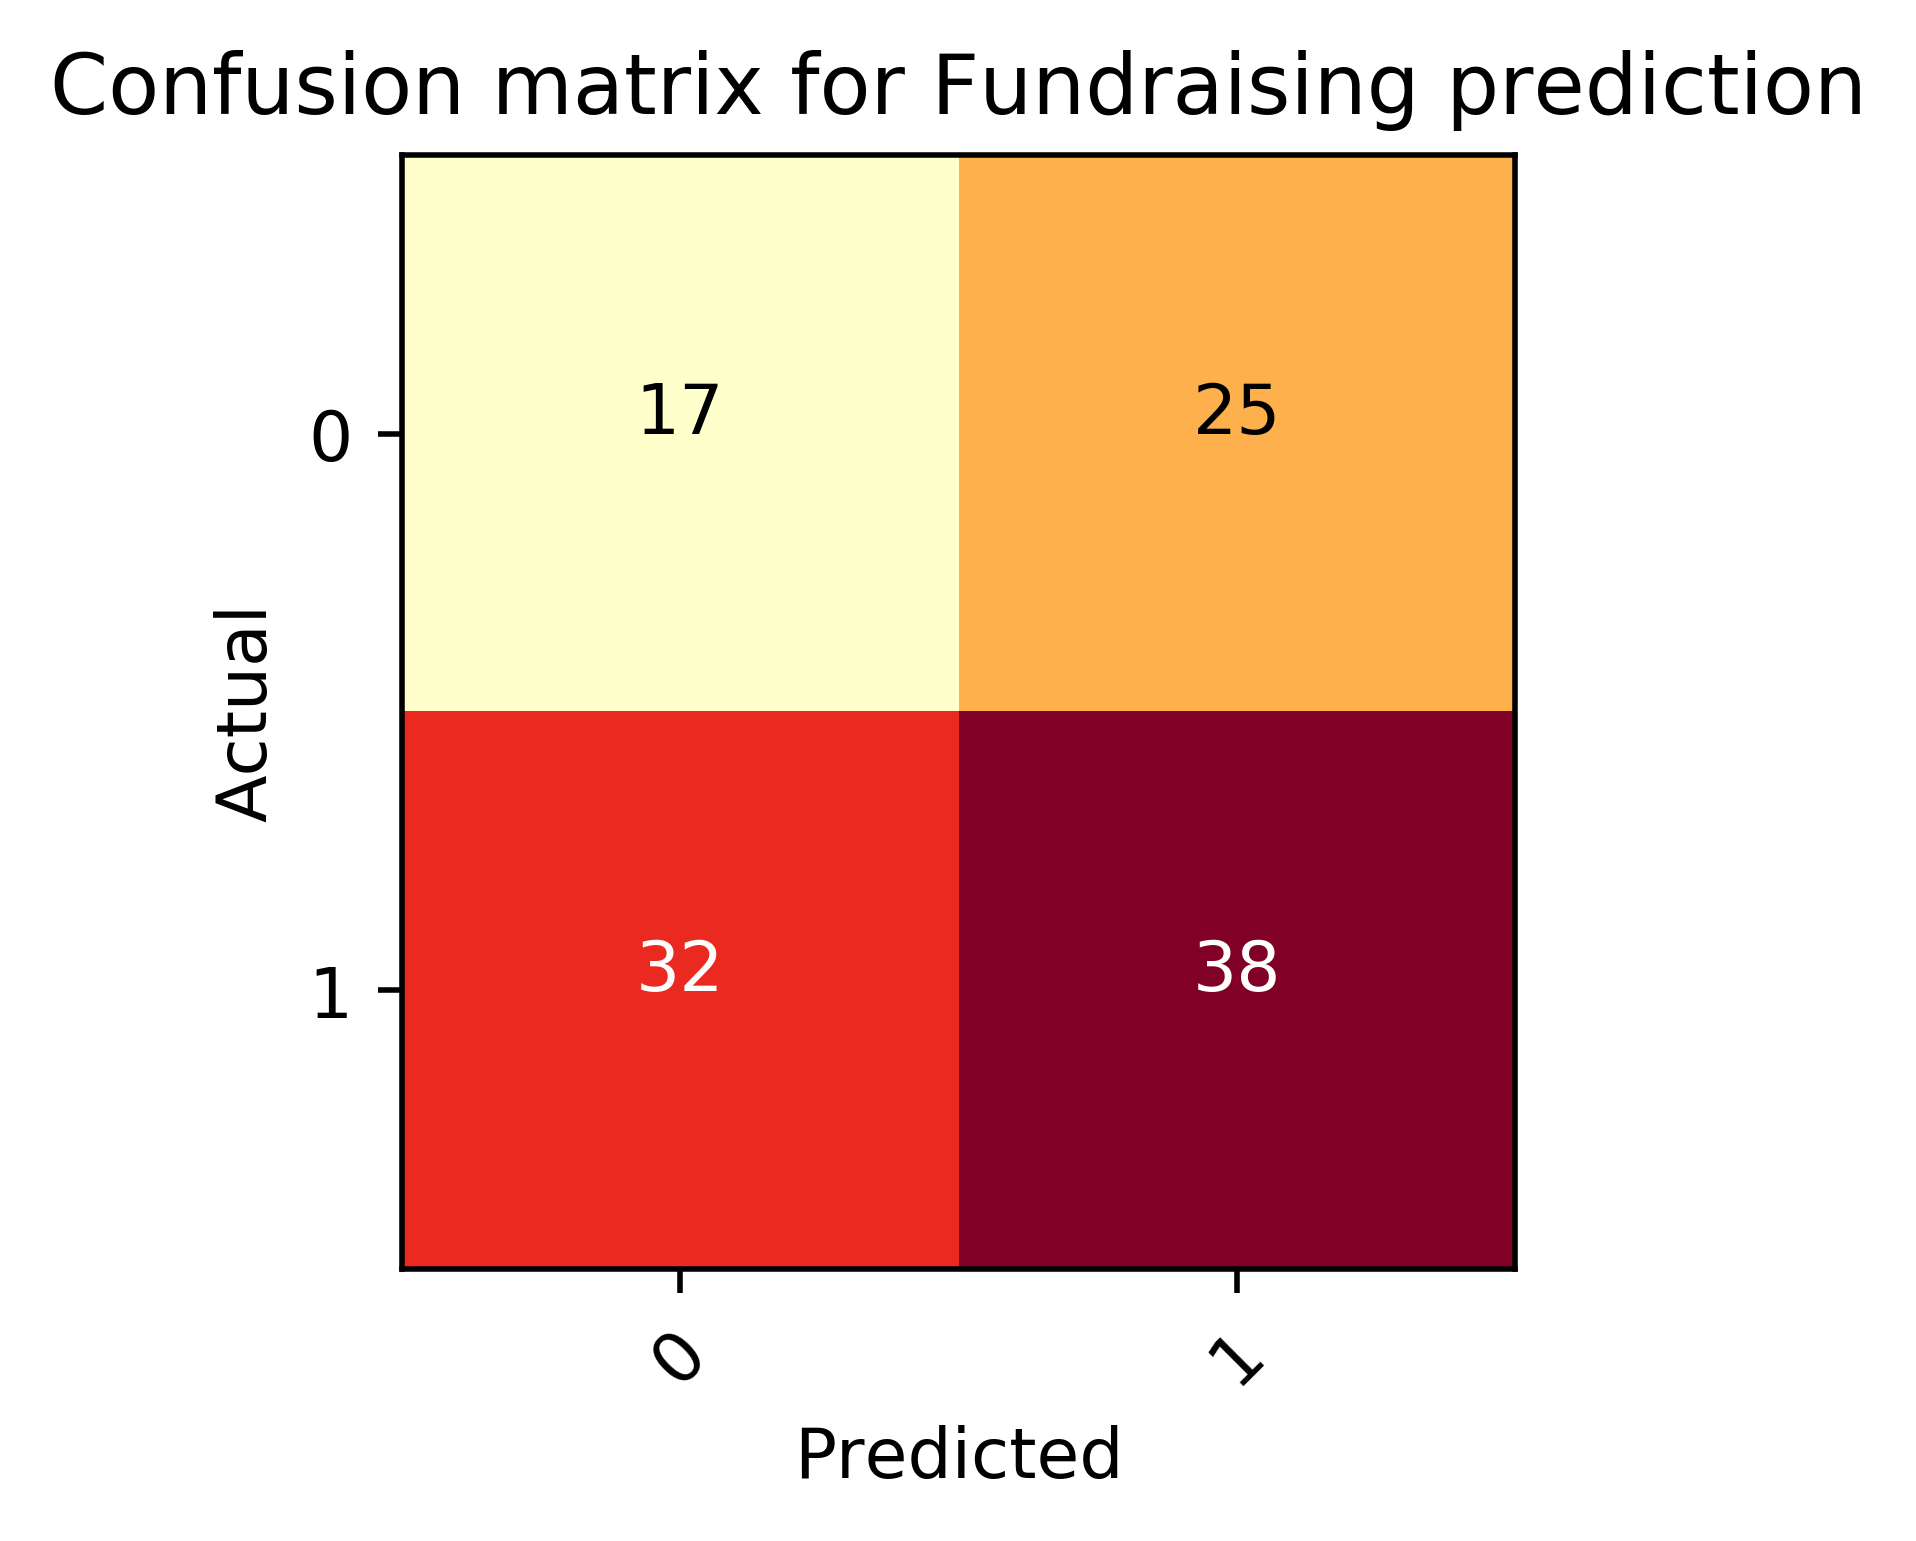
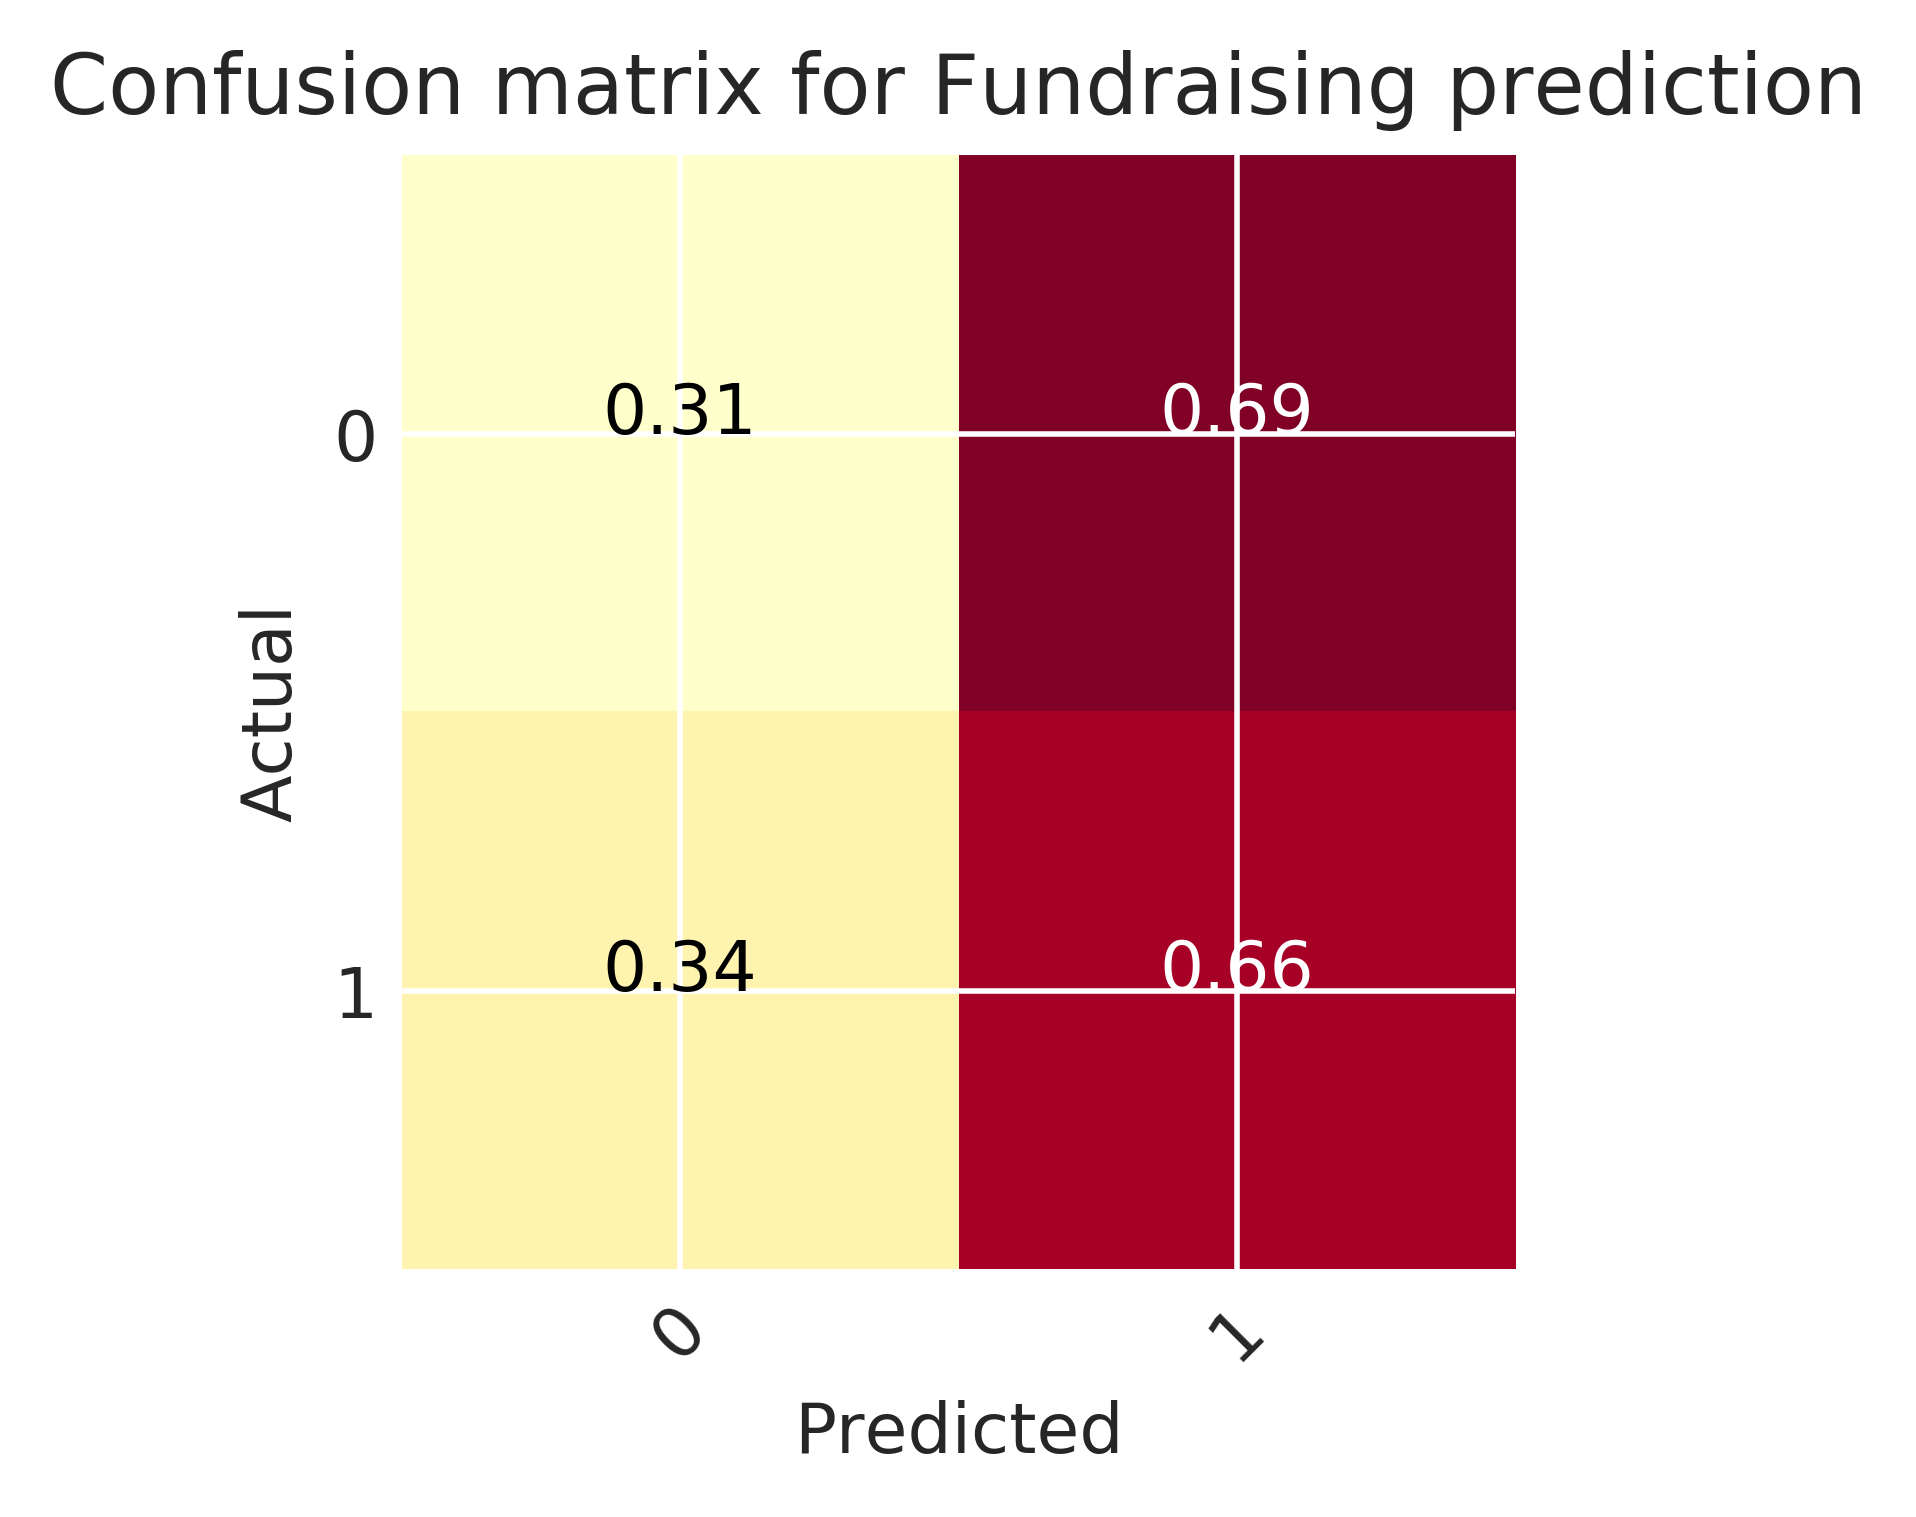
adding style

diff --git a/utils.py b/utils.py
@@ -1,9 +1,12 @@
 import itertools
 import numpy as np
 import matplotlib.pyplot as plt
+import seaborn as sns
 
 import sklearn.metrics
 from lifelines import KaplanMeierFitter
+
+sns.set_style(style="darkgrid")
 
 def kaplan_curve(df, duration, censorship, cohort=None):
     """ Estimate the survival function

diff --git a/README.md b/README.md
@@ -18,12 +18,12 @@ This section develop a model to predict if fundraising will be required.
 ### Feature Engineering
 #### Feature Scaling
 Based on the distribution of the variables the following scaling method were used:
-` `StandardScaler` the scaler was used to scale;`Age`
+* `StandardScaler` the scaler was used to scale;`Age`
 * `MinMaxScaler`, this scaler was used to scale; `No_of_Children`, `Significant_Children`, and `Significant_Relatives`
 * `RobustScaler`, this caler was used used to scale; `Size`, and `Word_Count`
 #### Encoding Categorical Data
 The following varibles were converted to number:
-* 'Fundraising`
+* `Fundraising`
 * `Color`
 * `Gender'
 
@@ -36,10 +36,14 @@ The model is then trained using the best parameters from `RandomizedSearchCV` us
 
 ### Model Evaluation
 To evaluate the performance of the model, the model is used to predict the `y_test`
-`f1_score = sklearn.metrics.f1_score(y_test, y_pred)`
- `tn, fp, fn, tp = sklearn.metrics.confusion_matrix(y_test, y_pred).ravel()`
- `sensitivity = tp / (tp + fn)`
- `specificity = tn / (tn + fp)`
+* `f1_score = sklearn.metrics.f1_score(y_test, y_pred)`
+    the value os the f1_score is 0.634
+* `tn, fp, fn, tp = sklearn.metrics.confusion_matrix(y_test, y_pred).ravel()`
+* `sensitivity = tp / (tp + fn)`
+    the value os the sensitivity is 0.657
+* `specificity = tn / (tn + fp)`
+    the value os the specificity is 0.3095
+From the figure below only 31 percent Funel that do not require fundraising are classified correctly and 61 percent of the recors that require fundraising are classified correctly
 ![picture alt](Confusion_matrix.png "Confusion_matrix")
 
 # Notes
